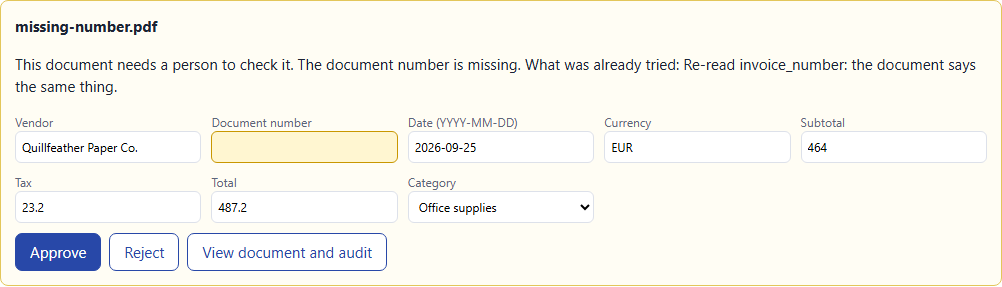
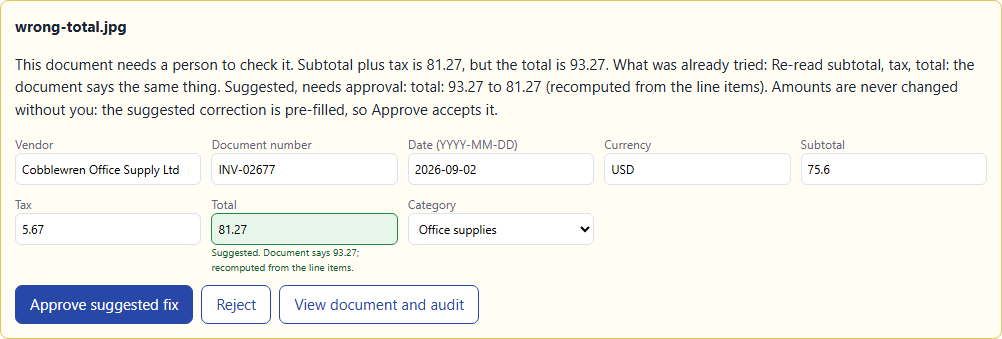
Evals and README for the approval policy; refreshed screenshots

diff --git a/README.md b/README.md
@@ -1,6 +1,6 @@
 # doc-agents-aws
 
-**Four AI agents on AWS that read invoices and receipts, check them, fix what can be fixed, and hand the rest to a person with a plain-English explanation. Serverless, deployed with Terraform, measured agent by agent.**
+**Four AI agents on AWS that read invoices and receipts, check them, fix what is safe to fix, and hand the rest to a person with a plain-English explanation. Money is never changed without one. Serverless, deployed with Terraform, measured agent by agent.**
 
 **Live demo: <https://dqzyienf3t29b.cloudfront.net>**: click a fictional sample and watch it move through the agents. Demo only: don't upload real invoices.
 
@@ -10,7 +10,7 @@ Project 2 of my AI portfolio. Project 1: [rag-on-aws](https://github.com/usmanib
 
 | Human review | Audit trail |
 |---|---|
-| ![A document waiting for review, with the explanation and editable fields](docs/img/demo-review.png) | ![Every agent decision for one document](docs/img/demo-audit.png) |
+| ![A wrong total waiting for approval, with the suggested value pre-filled and the reason](docs/img/demo-review.png) | ![Every agent decision for one document](docs/img/demo-audit.png) |
 
 ## What it does
 
@@ -19,7 +19,7 @@ Project 2 of my AI portfolio. Project 1: [rag-on-aws](https://github.com/usmanib
 | **Classifier** | Invoice, receipt, credit note, or not a financial document. Junk is rejected with a reason |
 | **Extractor** | Reads PDF or photo into a fixed JSON schema: vendor, number, date, currency, line items, subtotal, tax, total, expense category |
 | **Validator** | Rules first (arithmetic, tax rate, required fields, duplicates, known vendor), then an AI anomaly check on documents that pass |
-| **Resolver** | Re-reads the problem fields, fuzzy-matches misspelled vendors, recomputes totals. Fixed documents go back to the Validator (at most 2 loops) |
+| **Resolver** | Re-reads the problem fields, fuzzy-matches misspelled vendors, recomputes totals. Non-monetary fixes are applied and go back to the Validator (at most 2 loops); **monetary fixes are suggested for one-click approval** |
 
 Whatever remains goes to a person: the workflow pauses, shows what is wrong and what was already tried, and resumes on approve or reject. Every decision is written to an audit log; saved documents export as CSV.
 
@@ -43,8 +43,8 @@ flowchart TB
     E --> V[Validator]
     V -->|valid| F[finalizer]
     V -->|issues| R[Resolver]
-    R -->|"changed, max 2 loops"| V
-    R -->|"nothing to change"| H["reviewer<br/>waitForTaskToken"]
+    R -->|"non-monetary fix, max 2 loops"| V
+    R -->|"money to approve, or no fix"| H["reviewer<br/>waitForTaskToken"]
     V -->|"still invalid after 2"| H
     H -->|approve / reject| F
   end
@@ -65,7 +65,8 @@ Each box in the workflow is its own Lambda with its own IAM role. Agent Lambdas 
 |---|---|
 | **Rules before AI** in the Validator | Arithmetic, tax and duplicates are exact, free and explainable; the model only judges what rules cannot, and only on documents that passed them |
 | **Step Functions Standard** with `waitForTaskToken` | A document can wait days for a person with nothing running |
-| Resolver **only fixes what evidence supports** | A total is recomputed only when every line is internally consistent; the old value stays in the audit log |
+| **Money needs a person** (default) | A change to a total, subtotal, tax, currency or line amount is only suggested, pre-filled with the reason. `auto_fix_monetary_amounts = true` lets the Resolver apply it instead |
+| Resolver **only proposes what evidence supports** | A total is recomputed only when every line is internally consistent; old and new values stay in the audit log |
 | Loop ends when **nothing changed** (or after 2 loops) | No repeated model calls that cannot help |
 | **SQS + a starter Lambda** in front of the workflow | A burst of uploads waits in line (`ChangeMessageVisibility` backoff) instead of hitting the free-tier limit together |
 | **Pluggable provider** (`gemini` or `bedrock`) | Bedrock on-demand quota is 0 on this account. The Bedrock path is tested with stubs only |
@@ -81,26 +82,31 @@ Each box in the workflow is its own Lambda with its own IAM role. Agent Lambdas 
 | Classifier | Document type accuracy | 100% (33 documents) |
 | Extractor | Field accuracy / line items / category | 100% / 100% / 100% (30 documents) |
 | Validator | Precision / recall | 100% / 100% (14 bad, 16 good) |
-| Resolver | Saved without a human | 42.9% (6 of 14 flagged) |
-| Resolver | Fixable fixed correctly / unfixable sent to a person | 6 of 6 / 8 of 8 |
-| Pipeline | Latency, one document (median of 5, max) | 5.2 s (18.8 s) |
-| Pipeline | Latency when 31 arrive at once (p50 / p95) | 73 s / 228 s, mostly queueing |
+| Resolver | Non-monetary fixes applied correctly (misspelled vendors) | 3 of 3 |
+| Resolver | Wrong totals: right correction suggested for approval | 3 of 3 |
+| Resolver | Unfixable documents sent to a person | 8 of 8 |
+| Resolver | Saved without a person | 21.4% (3 of 14 flagged) |
+| Resolver | Amounts changed without a person | 0 |
+| Pipeline | Latency, one document (median of 5, max) | 5.3 s (6.9 s) |
+| Pipeline | Latency when 31 arrive at once (p50 / p95) | 97 s / 243 s, mostly queueing |
 
-**How to read this.** The 100% scores mean the pipeline handles this set, not that it is error-free. The documents are machine-rendered and clearly printed (scans add only slight rotation, noise and blur), the set is small, and the same author wrote the data, the rules and the pipeline. Expect lower scores on creased photos, handwriting and unusual layouts. The auto-fix rate is low by design: 8 of the 14 faults (duplicates, missing data, odd tax, unknown vendor) *should* reach a person.
+**How to read this.** The 100% scores mean the pipeline handles this set, not that it is error-free. The documents are machine-rendered and clearly printed (scans add only slight rotation, noise and blur), the set is small, and the same author wrote the data, the rules and the pipeline. Expect lower scores on creased photos, handwriting and unusual layouts. Few documents are saved without a person by design: 11 of the 14 faulty ones need one, either to approve a changed amount or to supply what is missing. An earlier run that let the Resolver change totals itself saved 6 of 14; both runs are in the history table.
+
+**Real photos:** [`evals/photos/`](evals/photos/README.md) holds a second set, photographs of ten printed documents scored against the same ground truth and reported as a separate row. The photos have not been added yet, so there is no result.
 
 A [burst test](evals/LOAD_TEST.md) of 20 simultaneous uploads finished all 20 in 366 s with nothing lost or dead-lettered.
 
 ## Cost per 1,000 documents
 
-Measured in the eval run: 1,971 input and 297 output tokens, 8.8 state transitions and 3.63 Lambda GB-seconds per document.
+Measured in the eval run: 1,944 input and 292 output tokens, 8.5 state transitions and 2.83 Lambda GB-seconds per document.
 
 | Option | Models | AWS | **Total per 1,000 documents** |
 |---|---|---|---|
-| Gemini free tier (demo and public data only) | $0.00 | $0.32 | **$0.32** |
-| Gemini paid (`gemini-3.5-flash-lite`) | $1.33 | $0.32 | **$1.65** |
-| Amazon Bedrock Nova Lite (estimate, not run) | $0.19 | $0.32 | **$0.51** |
+| Gemini free tier (demo and public data only) | $0.00 | $0.30 | **$0.30** |
+| Gemini paid (`gemini-3.5-flash-lite`) | $1.31 | $0.30 | **$1.61** |
+| Amazon Bedrock Nova Lite (estimate, not run) | $0.19 | $0.30 | **$0.48** |
 
-AWS share: Step Functions $0.22, Lambda $0.06, DynamoDB $0.02, S3 + SQS $0.01, API Gateway $0.01. List prices without free-tier allowances; DynamoDB, S3, SQS and API request counts per document are assumptions; logs, CloudFront, transfer and storage are excluded. Prices and sources are in [`evals/cost.py`](evals/cost.py). Nothing runs all the time: when idle, the charges are storage and the queue polling.
+AWS share: Step Functions $0.21, Lambda $0.05, DynamoDB $0.02, S3 + SQS $0.01, API Gateway $0.01. List prices without free-tier allowances; DynamoDB, S3, SQS and API request counts per document are assumptions; logs, CloudFront, transfer and storage are excluded. Prices and sources are in [`evals/cost.py`](evals/cost.py). Nothing runs all the time: when idle, the charges are storage and the queue polling.
 
 ## Security
 
@@ -118,7 +124,7 @@ AWS share: Step Functions $0.22, Lambda $0.06, DynamoDB $0.02, S3 + SQS $0.01, A
 ## Problems solved
 
 1. **Paused reviews would have blocked the queue.** An execution waiting for a person still counts as running, so the starter subtracts pending reviews before deciding whether there is a free slot.
-2. **Auto-fixing money is risky.** The Resolver first re-reads the document, and recomputes only when the line items prove which figure is wrong.
+2. **Auto-fixing money is risky.** The first version corrected wrong totals by itself. Now it prepares the correction and a person accepts it with one click, unless the client switches that on.
 3. **Duplicates in a public demo.** The duplicate key includes the session, so two visitors trying the same sample do not flag each other.
 4. **Rate limits without paying to wait.** Instead of sleeping in a Lambda, agents fail fast on 429 and Step Functions backs off.
 5. **A circular dependency** between the site's security policy (needs the API address) and the API's CORS (needs the site address), broken by allowing the API Gateway domain pattern in the policy.

diff --git a/evals/RESULTS.md b/evals/RESULTS.md
@@ -10,10 +10,12 @@ person involved whose money differs from what was read.
 | Date | Set | Monetary fixes | Docs | Classification | Fields | Line items | Category | Precision | Recall | Saved without a person | Fixes right | Unfixable to a person | Amounts changed without a person |
 |---|---|---|---|---|---|---|---|---|---|---|---|---|---|
 | 2026-11-26 | Generated | auto-applied | 33 | 100.0% | 100.0% | 100.0% | 100.0% | 100.0% | 100.0% | 6 of 14 | 3/3 and 3/3 | 8/8 | 3 |
+| 2026-11-26 | Generated | need review | 33 | 100.0% | 100.0% | 100.0% | 100.0% | 100.0% | 100.0% | 3 of 14 | 3/3 and 3/3 | 8/8 | 0 |
 <!-- runs:end -->
 
 <!-- documents:start -->
 ## Latest run: generated documents
+
 Run on 2026-11-26 against the deployed stack, model `gemini-3.5-flash-lite`.
 33 synthetic documents (30 financial, 3 not), all for
 fictional companies, generated from ground truth by `scripts/generate_dataset.py`.
@@ -27,12 +29,14 @@ fictional companies, generated from ground truth by `scripts/generate_dataset.py
 | Validator | Precision | 100.0% | 0 good document(s) flagged |
 | Validator | Recall | 100.0% | 0 bad document(s) missed |
 | Validator | Exact issue codes | 100.0% | found set equals expected set |
-| Resolver | Auto-fix rate | 42.9% | 6 of 14 flagged documents saved without a human |
-| Resolver | Fixable ones fixed correctly | 6/6 | wrong totals, misspelled vendors |
+| Resolver | Saved without a person | 21.4% | 3 of 14 flagged documents |
+| Resolver | Non-monetary fixes applied correctly | 3/3 | misspelled vendors |
+| Resolver | Monetary fixes correct | 3/3 | wrong totals; monetary fixes need review |
+| Resolver | Amounts changed without a person | 0 | documents saved with money different from what was read |
 | Resolver | Unfixable ones sent to a human | 8/8 | duplicates, missing fields, odd tax, unknown vendor |
-| Pipeline | Latency, one document at a time (median) | 5.2 s | max 18.8 s, 5 documents, upload to finished |
-| Pipeline | Latency, all uploaded at once (p50 / p95) | 73 s / 228 s | includes waiting on the queue (3 processed at a time) |
-| Pipeline | Cost per 1,000 documents (Gemini paid tier) | $1.65 | models $1.33 + AWS $0.32 |
+| Pipeline | Latency, one document at a time (median) | 5.3 s | max 6.9 s, 5 documents, upload to finished |
+| Pipeline | Latency, all uploaded at once (p50 / p95) | 97 s / 243 s | includes waiting on the queue (3 processed at a time) |
+| Pipeline | Cost per 1,000 documents (Gemini paid tier) | $1.61 | models $1.31 + AWS $0.30 |
 
 Per-field extraction accuracy: vendor 100.0%, invoice_number 100.0%, date 100.0%, currency 100.0%, subtotal 100.0%, tax 100.0%, total 100.0%.
 
@@ -42,17 +46,17 @@ Per-field extraction accuracy: vendor 100.0%, invoice_number 100.0%, date 100.0%
 
 ### Cost per 1,000 documents
 
-Measured averages per document: 1971 input and
-297 output tokens, 8.8 state transitions,
-3.63 Lambda GB-seconds.
+Measured averages per document: 1944 input and
+292 output tokens, 8.5 state transitions,
+2.83 Lambda GB-seconds.
 
 | Option | Models | AWS | Total per 1,000 documents |
 |---|---|---|---|
-| Gemini free tier (demo/public data only) | $0.00 | $0.32 | $0.32 |
-| Gemini paid | $1.33 | $0.32 | $1.65 |
-| Bedrock Nova Lite (estimate, not run) | $0.19 | $0.32 | $0.51 |
+| Gemini free tier (demo/public data only) | $0.00 | $0.30 | $0.30 |
+| Gemini paid | $1.31 | $0.30 | $1.61 |
+| Bedrock Nova Lite (estimate, not run) | $0.19 | $0.30 | $0.48 |
 
-AWS breakdown: Step Functions $0.220, Lambda $0.063, DynamoDB $0.022, API Gateway $0.006, S3 + SQS $0.008.
+AWS breakdown: Step Functions $0.213, Lambda $0.050, DynamoDB $0.022, API Gateway $0.006, S3 + SQS $0.008.
 Prices and what is excluded: `evals/cost.py`.
 
 ### Method

diff --git a/CLAUDE.md b/CLAUDE.md
@@ -32,6 +32,8 @@ Four-agent document pipeline on AWS: invoices/receipts (PDF or photo) go in; Cla
 | CD | GitHub Actions: fmt/validate/ruff/pytest, then plan + apply on main via OIDC; guard blocks any destroy/replace unless commit message has `[allow-destroy]` |
 | Isolation | Anonymous session id generated client-side (localStorage), sent as `X-Session-Id` header. Every upload, list, detail, audit, review, approve/reject and export is scoped to that session. Step Functions task tokens stay server-side (`reviews` table), never sent to the browser; approve/reject is by document id after checking the session owns it |
 | Retention | S3 lifecycle deletes uploads after 7 days; DynamoDB TTL expires documents/audit/reviews after 7 days. Site shows a clear "demo only, don't upload real invoices" banner |
+| Resolver policy | Auto-apply only non-monetary fixes (vendor name, non-monetary values found on a second reading). Changes to total, subtotal, tax, currency or line quantities/prices/amounts (including filling empty ones) are suggestions for human one-click approval. Setting `auto_fix_monetary_amounts` (default false) |
+| Eval sets | Generated set (`evals/data`) and real photos of printed documents (`evals/photos`); every run appends a history row to `evals/RESULTS.md` |
 | Eval data | Synthetic documents are generated programmatically from ground-truth JSON (PDFs rendered; scan-like images rendered with slight rotation/noise), so ground truth is exact by construction |
 | Cost | AWS Budget with email alerts (email via secret, never committed) |
 
